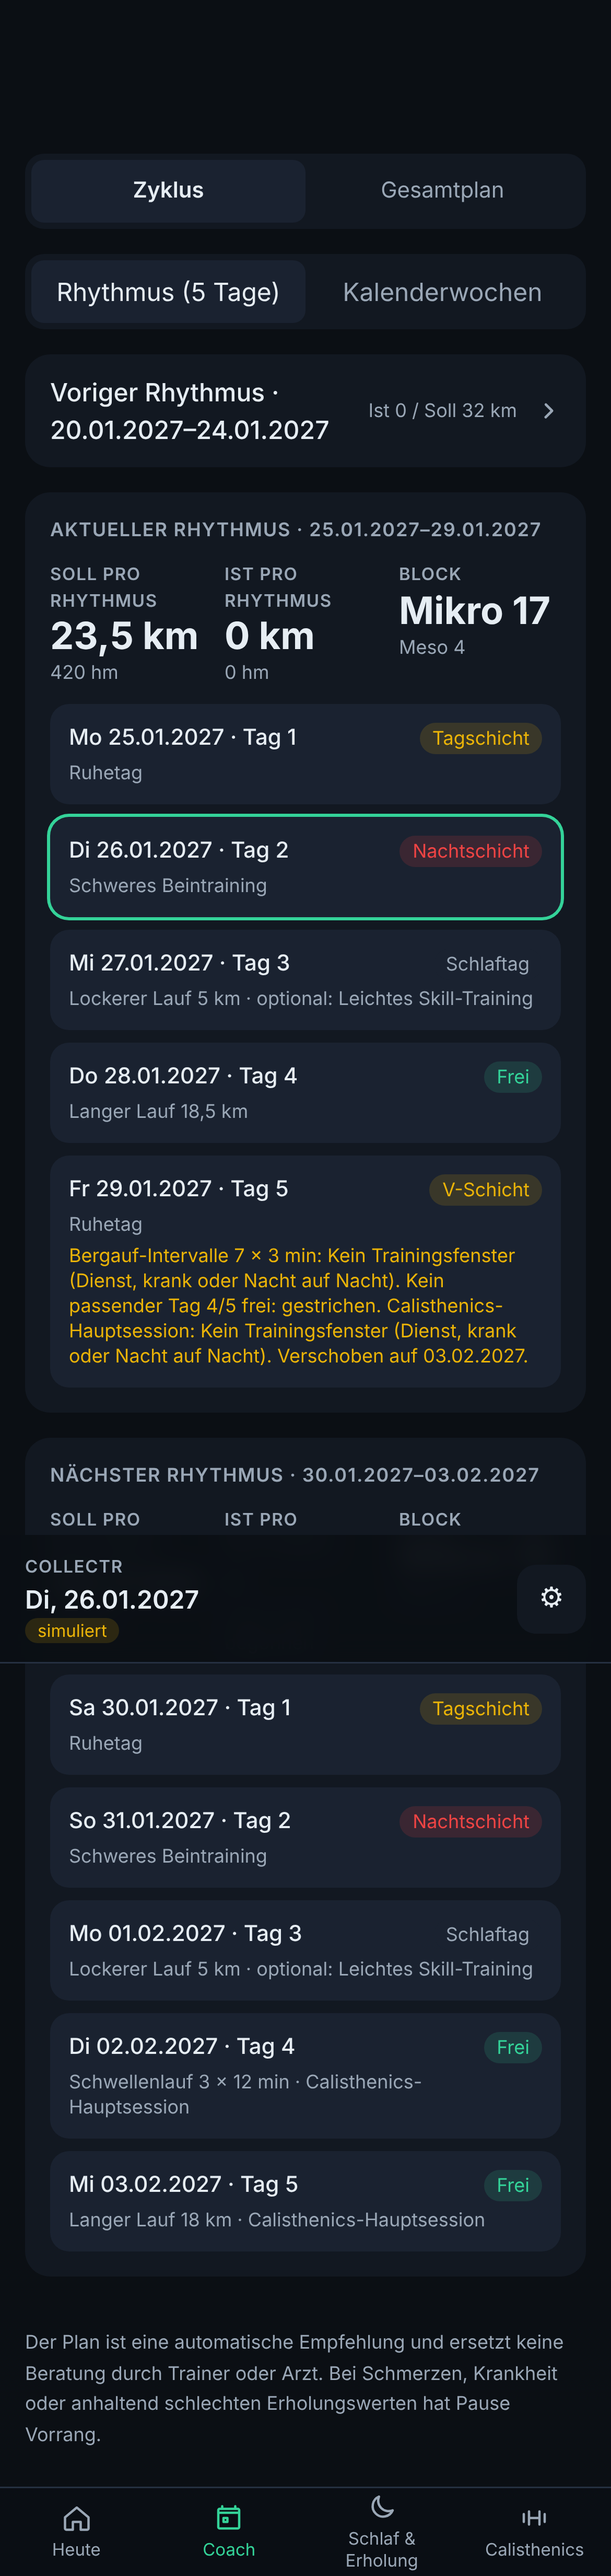
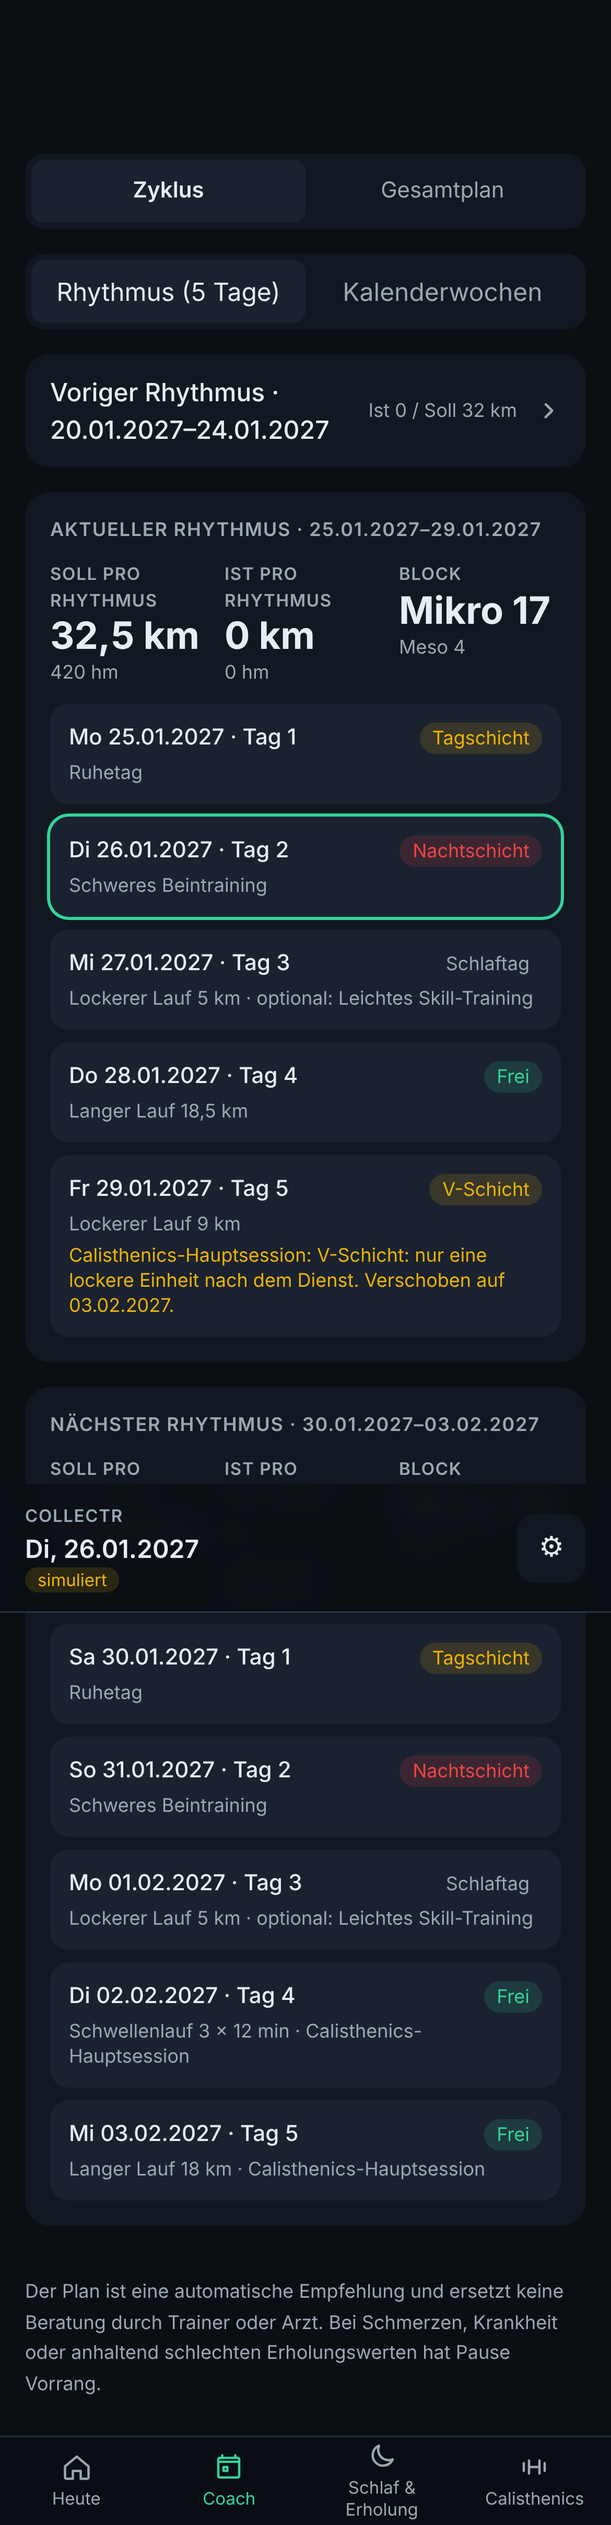
V-Schicht: eine lockere Einheit nach dem Dienst
Nutzerwunsch: Trägt man eine V-Schicht ein, darf der Plan an diesem Tag
Calisthenics oder einen Lauf einplanen statt gar nichts.

- trainingWindow: V-Schicht bekommt ein Fenster nach dem Dienst
  (Ankunft + 30 min, höchstens 60 min, Standard 20:45–21:45)
- placeDay: die wichtigste Einheit des Tages bleibt als lockere Variante
  (Lauf → lockerer Lauf, Kraft → Calisthenics-Erhaltung), lange Läufe nie,
  der Rest wird wie bisher verschoben oder gestrichen
- Schlaf: nach Training am Abend frühestens 45 min später ins Bett
- Tests und Doku angepasst

Claude-Session: https://claude.ai/code/session_017BJPYiqC2kuGk2Qt34sR8W

diff --git a/src/core/plan/plan.test.ts b/src/core/plan/plan.test.ts
@@ -309,7 +309,7 @@ describe('Harte Regeln (SPEC 4.3, 5.3, 5.5, 11)', () => {
     const cal = withOverride(createShiftCalendar(), { date: '2026-11-15', kind: 'V' })
     const p = generatePlan({ calendar: cal })
     expect(types(day(p, '2026-11-14'))).toEqual(['long_run'])
-    expect(day(p, '2026-11-15').sessions).toEqual([])
+    expect(types(day(p, '2026-11-15'))).toEqual(['easy_run']) // lockere Einheit nach dem Dienst
     const hillsId = day(plan, '2026-11-14').sessions[0]!.id
     const logged = generatePlan({ calendar: cal, logs: [{ sessionId: hillsId, date: '2026-11-14', status: 'done' }] })
     expect(types(day(logged, '2026-11-14'))).toEqual(['treadmill_hills', 'calisthenics_main'])
@@ -386,19 +386,39 @@ describe('Harte Regeln (SPEC 4.3, 5.3, 5.5, 11)', () => {
 })
 
 describe('V-Schicht, Ausfälle und Verschieben (SPEC 4.1, 6.3, 11)', () => {
-  it('kurzfristige V-Schicht: keine Einheit am V-Tag, Schlüsseleinheit einmal verschoben oder gestrichen', () => {
+  it('V-Schicht: die wichtigste Einheit bleibt als lockere Variante nach dem Dienst, die andere wird verschoben', () => {
     const cal = withOverride(createShiftCalendar(), { date: '2026-11-15', kind: 'V' })
     const p = generatePlan({ calendar: cal })
     const v = day(p, '2026-11-15')
-    expect(v.sessions).toEqual([])
-    const hills = v.removed.find((r) => r.session.type === 'treadmill_hills')!
-    expect(hills.note).toContain('gestrichen')
+    // Höhenmeter-Einheit (Priorität vor Calisthenics) → lockerer Lauf, höchstens 60 min, Start 20:45
+    expect(v.sessions).toHaveLength(1)
+    const light = v.sessions[0]!
+    expect(light.type).toBe('easy_run')
+    expect(light.origin?.convertedFrom).toBe('treadmill_hills')
+    expect(light.durationMin).toBeLessThanOrEqual(CONFIG.windows.vShiftMaxMin)
+    expect(light.startMin).toBe(20 * 60 + 45)
     const cali = v.removed.find((r) => r.session.type === 'calisthenics_main')!
     expect(cali.reason).toBe('moved')
     const target = day(p, '2026-11-20')
     const moved = target.sessions.find((s) => s.type === 'calisthenics_main')!
     expect(moved.origin?.movedFrom).toBe('2026-11-15')
     expect(target.shift.cycleDay).toBe(5)
+  })
+
+  it('V-Schicht: Calisthenics wird zur Erhaltung, harte Läufe zum lockeren Lauf, lange Läufe nie am V-Tag', () => {
+    // Aufbau Tag 4: Bergauf-Intervalle + Calisthenics → V: lockerer Lauf ≤ 60 min
+    const q = generatePlan({ calendar: withOverride(createShiftCalendar(), { date: '2027-01-28', kind: 'V' }) })
+    expect(day(q, '2027-01-28').sessions.map((s) => [s.type, s.origin?.convertedFrom])).toEqual([['easy_run', 'intervals_uphill']])
+    expect(day(q, '2027-01-28').sessions[0]!.durationMin).toBeLessThanOrEqual(60)
+    // Kraft als wichtigste Einheit (Tag 2 schweres Beintraining, per Tausch V-Schicht) → Calisthenics-Erhaltung
+    const k = generatePlan({ calendar: withOverride(createShiftCalendar(), { date: '2026-11-12', kind: 'TAUSCH', swapTo: 'V' }) })
+    expect(day(k, '2026-11-12').sessions.map((s) => [s.type, s.origin?.convertedFrom])).toEqual([['calisthenics_maintenance', 'legs_heavy']])
+    // Rennspezifisch Tag 4 nur langer Lauf → V-Tag bleibt leer, der lange Lauf rückt auf Tag 5
+    const l = generatePlan({ calendar: withOverride(createShiftCalendar(), { date: '2027-02-27', kind: 'V' }) })
+    expect(day(l, '2027-02-27').sessions).toEqual([])
+    expect(day(l, '2027-02-28').sessions.find((s) => s.type === 'long_run')!.origin?.movedFrom).toBe('2027-02-27')
+    // Tagschicht bleibt ohne Training
+    expect(plan.days.filter((d) => d.shift.code === 'T').every((d) => d.sessions.length === 0 || d.isRaceDay)).toBe(true)
   })
 
   it('nie auf Tag 1 verschoben', () => {

diff --git a/src/core/plan/schedule.ts b/src/core/plan/schedule.ts
@@ -5,7 +5,7 @@ import { CONFIG } from '../config'
 import { effectiveShift, fitsWindow, trainingWindow, type ShiftCalendar } from '../shift'
 import { addDays, daysBetween, formatDateDE } from '../time'
 import type { LocalDate, Phase, PlanDay, PlannedSession, RemovedSession } from '../types'
-import { EASY_ONLY_TYPES, isLongOrQuality, priorityOf, relocate, scaleSession, toLongRun, toStrengthVariant } from './sessionOps'
+import { EASY_ONLY_TYPES, isLongOrQuality, priorityOf, relocate, scaleSession, toLightVariant, toLongRun, toStrengthVariant, V_SHIFT_TYPES } from './sessionOps'
 
 const W = CONFIG.windows
 const DAY45: ReadonlySet<string> = new Set(CONFIG.sessions.day45Only)
@@ -38,6 +38,17 @@ export function placeDay(cal: ShiftCalendar, date: LocalDate, microIndex: number
   if (!w) {
     for (const s of [...list]) drop(s, 'no_window', 'Kein Trainingsfenster (Dienst, krank oder Nacht auf Nacht).')
     day.sessions = list
+    return day
+  }
+  // V-Schicht (Nutzerwunsch): höchstens eine lockere Einheit nach dem Dienst. Die wichtigste Einheit des Tages
+  // bleibt als lockere Variante, lange Läufe und alles Übrige werden wie bisher verschoben oder gestrichen.
+  if (w.afterWork) {
+    const note = 'V-Schicht: nur eine lockere Einheit nach dem Dienst.'
+    const pick = list
+      .filter((s) => !s.optional && !DAY45.has(s.type))
+      .sort((a, b) => priorityOf(b) - priorityOf(a))[0]
+    for (const s of [...list]) if (s !== pick) drop(s, 'no_window', note)
+    day.sessions = pick ? [toLightVariant(pick, phase, w.end - w.start, note)] : []
     return day
   }
   if (w.easyOnly) {
@@ -185,7 +196,7 @@ export function assignStartTimes(days: Map<LocalDate, PlanDay>): void {
     const prev = days.get(addDays(day.date, -1))
     const afterNightRun = prev?.sessions.some((s) => s.type === 'night_run') ?? false
     const total = rest.reduce((a, s) => a + s.durationMin, 0) + Math.max(0, rest.length - 1) * W.transitionMin
-    let t = afterNightRun ? Math.max(w.start, W.afternoonStart) : w.start + W.startOffsetMin
+    let t = afterNightRun ? Math.max(w.start, W.afternoonStart) : w.afterWork ? w.start : w.start + W.startOffsetMin
     if (fixed.length) t = Math.max(...fixed.map((s) => s.startMin! + s.durationMin)) + W.transitionMin
     else if (t + total > w.end) t = Math.max(w.start, w.end - total)
     for (const s of rest) {
@@ -216,7 +227,9 @@ export function checkPlanRules(days: PlanDay[]): RuleViolation[] {
   for (const d of days) {
     if (d.isRaceDay) continue
     if (!d.window && d.sessions.length > 0) out.push({ date: d.date, rule: 'no_training_day', message: 'Einheit an einem Tag ohne Trainingsfenster.' })
-    if (d.window?.easyOnly && d.sessions.some((s) => !EASY_ONLY_TYPES.has(s.type))) out.push({ date: d.date, rule: 'easy_only', message: 'Harte Einheit am Schlaftag.' })
+    if (d.window?.easyOnly && d.sessions.some((s) => !(d.window!.afterWork ? V_SHIFT_TYPES : EASY_ONLY_TYPES).has(s.type)))
+      out.push({ date: d.date, rule: 'easy_only', message: d.window.afterWork ? 'Harte Einheit nach der V-Schicht.' : 'Harte Einheit am Schlaftag.' })
+    if (d.window?.afterWork && d.sessions.length > 1) out.push({ date: d.date, rule: 'window', message: 'Nach der V-Schicht nur eine Einheit.' })
     if (d.window && !fitsWindow(d.window, d.sessions)) out.push({ date: d.date, rule: 'window', message: 'Einheiten passen nicht ins Fenster.' })
     if (d.sessions.some((s) => DAY45.has(s.type)) && d.shift.cycleDay !== 4 && d.shift.cycleDay !== 5)
       out.push({ date: d.date, rule: 'day45', message: 'Langer Lauf nicht an Tag 4/5.' })

diff --git a/src/core/plan/sessionOps.ts b/src/core/plan/sessionOps.ts
@@ -10,6 +10,8 @@ import { roundKm } from './volume'
 export const RUN_LONG_TYPES: ReadonlySet<SessionType> = new Set(['long_run', 'b2b_1', 'b2b_2', 'night_run', 'mountain_day'])
 export const QUALITY_TYPES: ReadonlySet<SessionType> = new Set(['threshold', 'intervals_uphill'])
 export const EASY_ONLY_TYPES: ReadonlySet<SessionType> = new Set(['recovery_run', 'easy_run', 'skill_light', 'mobility'])
+/** Nach der V-Schicht erlaubt: lockere Einheiten und Calisthenics-Erhaltung. */
+export const V_SHIFT_TYPES: ReadonlySet<SessionType> = new Set([...EASY_ONLY_TYPES, 'calisthenics_maintenance'])
 
 export const priorityOf = (s: Pick<PlannedSession, 'type'>): number => CONFIG.sessions.priority[s.type]
 
@@ -98,6 +100,17 @@ export function toStrengthVariant(s: PlannedSession, phase: Phase, type: Session
     ...(s.startMin !== undefined ? { startMin: s.startMin } : {}),
     origin: { ...(s.origin ?? {}), convertedFrom: s.type, ...(note ? { note } : {}) },
   }
+}
+
+/**
+ * Lockere Variante für den Abend nach der V-Schicht, höchstens `maxMin` lang:
+ * Lauf → lockerer Lauf, Kraft → Calisthenics-Erhaltung, lockere Einheiten bleiben (ggf. gekürzt).
+ */
+export function toLightVariant(s: PlannedSession, phase: Phase, maxMin: number, note: string): PlannedSession {
+  const fit = (x: PlannedSession) => (x.durationMin > maxMin ? scaleSession(x, maxMin / x.durationMin) : x)
+  if (V_SHIFT_TYPES.has(s.type)) return fit(s)
+  const light = s.category === 'run' ? toEasyRun(s, phase, maxMin) : toStrengthVariant(s, phase, 'calisthenics_maintenance')
+  return { ...fit(light), origin: { ...(light.origin ?? {}), convertedFrom: s.type, note } }
 }
 
 /** Technik-Variante (schwere Sätze → technische Sätze), leicht gekürzt. */

diff --git a/src/core/shift/shift.test.ts b/src/core/shift/shift.test.ts
@@ -83,13 +83,18 @@ describe('Arbeitszeiten und Losfahren (SPEC 4.1, 4.2)', () => {
 })
 
 describe('Overrides (SPEC 4.1)', () => {
-  it('V-Schicht auf Tag 5: Arbeitstag 07:45, kein Training', () => {
+  it('V-Schicht auf Tag 5: Arbeitstag 07:45, danach 60 min Fenster für eine lockere Einheit (Nutzerwunsch)', () => {
     const c = withOverride(cal, { date: '2026-10-06', kind: 'V' })
     const s = effectiveShift(c, '2026-10-06')
     expect(s.code).toBe('V')
     expect(formatTime(s.work!.actualStart)).toBe('07:45')
     expect(formatTime(s.work!.departure)).toBe('07:30')
-    expect(trainingWindow(c, '2026-10-06')).toBeNull()
+    const w = trainingWindow(c, '2026-10-06')!
+    // Dienstende 20:00 + 15 min Heimweg + 30 min → 20:45–21:45
+    expect([formatTime(w.start), formatTime(w.end)]).toEqual(['20:45', '21:45'])
+    expect(w).toMatchObject({ easyOnly: true, afterWork: true, nightRunAllowed: false })
+    // Tagschicht bleibt ohne Training
+    expect(trainingWindow(cal, '2026-10-02')).toBeNull()
   })
 
   it('Urlaub zählt als frei', () => {

diff --git a/src/core/config.ts b/src/core/config.ts
@@ -157,6 +157,13 @@ export const CONFIG = {
     dayShiftOptionalMobilityMin: 10,
     /** Zweiter Teil eines Back-to-backs nach einem Nachtlauf: nachmittags. */
     afternoonStart: h(15),
+    /**
+     * V-Schicht (Nutzerwunsch 08.11.2026): eine lockere Einheit nach dem Dienst, Beginn so viele
+     * Minuten nach der Ankunft zu Hause (Umziehen, kleiner Snack) …
+     */
+    vShiftAfterHomeMin: 30,
+    /** … und höchstens so lang (lockerer Lauf oder Calisthenics-Erhaltung). */
+    vShiftMaxMin: 60,
   },
 
   // ---------------------------------------------------------------------------
@@ -196,6 +203,8 @@ export const CONFIG = {
     maxDebtPayoffPerNightMin: 60,
     /** Nachtlauf: nach dem Lauf bis zum Zubettgehen (Duschen, Essen). */
     afterNightRunMin: 60,
+    /** Training am Abend (z. B. nach der V-Schicht): mindestens so viel Abstand bis zum Zubettgehen. */
+    afterTrainingBeforeBedMin: 45,
     /** Nap vor einem Nachtlauf. */
     nightRunNapStart: h(15),
     nightRunNapMin: 90,

diff --git a/src/core/shift/window.ts b/src/core/shift/window.ts
@@ -15,11 +15,16 @@ export interface WindowOptions {
   napStart?: Minutes
 }
 
-/** Trainingsfenster oder null (kein Training: Tagdienst, V, krank, Nacht auf Nacht). */
+/** Trainingsfenster oder null (kein Training: Tagdienst, krank, Nacht auf Nacht). V-Schicht: kurzes Fenster nach dem Dienst. */
 export function trainingWindow(cal: ShiftCalendar, date: LocalDate, opts: WindowOptions = {}): TrainingWindow | null {
   const s = effectiveShift(cal, date)
   switch (s.dayKind) {
-    case 'work':
+    case 'work': {
+      // V-Schicht (Nutzerwunsch): eine lockere Einheit nach dem Dienst. Tagschicht und Fortbildung: kein Training.
+      if (s.code !== 'V' || !s.work) return null
+      const start = s.work.homeArrival + W.vShiftAfterHomeMin
+      return { start, end: start + W.vShiftMaxMin, easyOnly: true, nightRunAllowed: false, afterWork: true }
+    }
     case 'sick':
     case 'night_to_night':
       return null

diff --git a/src/core/types.ts b/src/core/types.ts
@@ -59,7 +59,7 @@ export interface WorkTimes extends ShiftTimes {
 
 /**
  * Planungskategorie eines Tages, abgeleitet aus der tatsächlichen Schicht und der Vortagsschicht.
- * - work: Tagdienst (T, V, Fortbildung) → kein Training
+ * - work: Tagdienst (T, V, Fortbildung) → kein Training, nach der V-Schicht eine lockere Einheit
  * - pre_night: Nachtschicht am Abend → Training vormittags vor dem Nap
  * - night_to_night: Nachtschicht nach Nachtschicht → kein Training
  * - sleep_day: frei nach einer Nachtschicht → Training erst nachmittags und nur locker
@@ -88,6 +88,8 @@ export interface TrainingWindow {
   easyOnly: boolean
   /** Nachtlauf erlaubt (freier Tag, Folgetag ebenfalls frei). */
   nightRunAllowed: boolean
+  /** V-Schicht: höchstens eine lockere Einheit nach dem Dienst. */
+  afterWork?: boolean
 }
 
 // ---------------------------------------------------------------------------

diff --git a/src/core/sleep/recommend.ts b/src/core/sleep/recommend.ts
@@ -137,6 +137,12 @@ export function recommendSleep(input: SleepInput): SleepRecommendation {
       notes.push(`Rennvorbereitung: regelmäßige, eher frühe Nächte vor dem Start um ${formatTime(R.startMin)} Uhr.`)
       tag = 'race'
     }
+    // Training am Abend (z. B. nach der V-Schicht): mit Abstand ins Bett, notfalls etwas weniger Schlaf.
+    const lastEnd = todaySessions.reduce((a, s) => (s.startMin !== undefined ? Math.max(a, s.startMin + s.durationMin) : a), -Infinity)
+    if (!nightRun && bed < lastEnd + S.afterTrainingBeforeBedMin) {
+      bed = lastEnd + S.afterTrainingBeforeBedMin
+      notes.push(`Training am Abend: frühestens ${formatTime(bed)} Uhr ins Bett, vorher essen und runterkommen.`)
+    }
     rec.night = block(date, bed, wake)
   } else if (today.code === 'N') {
     notes.push('Heute Nacht Dienst: der Hauptschlaf folgt morgen nach der Schicht.')

diff --git a/e2e/app.spec.ts b/e2e/app.spec.ts
@@ -91,8 +91,9 @@ test('Onboarding, Heute, Zyklus, Plan, Kraft, Tracking, Einstellungen', async ({
   await expect(d5).toContainText('V-Schicht')
   await expect(d5).not.toContainText('Ruhetag · optional')
   await expect(d5).toContainText(/gestrichen|Verschoben/)
-  // V-Schicht an Tag 5: der lange Lauf rückt auf Tag 4
+  // V-Schicht an Tag 5: der lange Lauf rückt auf Tag 4, nach dem Dienst eine lockere Einheit
   await expect(d4).toContainText('Langer Lauf')
+  await expect(d5).toContainText('Lockerer Lauf')
   await noHorizontalScroll(page)
   await shot(page, '04-zyklus-v-schicht')
   await page.getByRole('button', { name: 'Kalenderwochen' }).click()

diff --git a/src/app/compute.test.ts b/src/app/compute.test.ts
@@ -111,7 +111,7 @@ describe('Tagesansicht', () => {
 
   it('V-Schicht verändert den Plan sofort', () => {
     const { v } = view(data({ overrides: [{ date: '2026-11-15', kind: 'V' }] }), '2026-11-15')
-    expect(v.items).toEqual([])
+    expect(v.items.map((i) => i.session.type)).toEqual(['easy_run']) // eine lockere Einheit nach dem Dienst
     expect(v.day!.removed.length).toBeGreaterThan(0)
   })
 

diff --git a/CLAUDE.md b/CLAUDE.md
@@ -27,6 +27,7 @@ Bei Unklarheiten, Widersprüchen oder mehreren sinnvollen Möglichkeiten: **den 
 | Entlastung | jeweils der letzte Mikrozyklus eines Mesozyklus (4, 8, 14, 20, 25), **außer Meso 6**, weil dort direkt der Taper folgt |
 | Schweres Beintraining | vorrangig Tag 2. Tag 4 nur, wenn Tag 5 keinen langen Lauf und keine Qualitätseinheit hat |
 | Tag 4/5 in Grundlage und Aufbau | (Nutzerwunsch 26.10.2026) Tag 4: Höhenmeter- bzw. Qualitätseinheit, danach Calisthenics. Tag 5: langer Lauf (`plan.longRunDay`). Ist Tag 5 nicht frei (V, Urlaub, krank) und Tag 4 noch ohne Eintrag, läuft der lange Lauf an Tag 4. Rennspezifisch und Taper unverändert (langer Lauf Tag 4) |
+| V-Schicht (Nutzerwunsch 08.11.2026) | An V-Tagen plant der Plan **eine lockere Einheit nach dem Dienst** (Fenster 20:45–21:45, max. 60 min, `windows.vShiftMaxMin`). Die wichtigste Einheit des Tages bleibt als lockere Variante (Lauf → lockerer Lauf, Kraft → Calisthenics-Erhaltung), lange Läufe nie am V-Tag, alles Übrige wird wie bisher verschoben oder gestrichen. Bettzeit mind. 45 min nach dem Training. Tagschicht weiter ohne Training |
 | Bergwochenenden | 1: **Streckenbesichtigung** Fr/Sa 19./20.03.2027 (4 Wochen vor dem Rennen) |
 | Umfang (Zielwechsel) | ans Rennen angepasst: Spitze ca. 52–57 km/Woche, längster Lauf 32 km (14.03.2027), B2B-Spitze 22 + 14 km |
 | Rennwoche ohne Urlaub | Schichtplan bleibt wie berechnet, Warnung im Coach (Checkliste), bis Urlaub eingetragen ist. Renntag = Zyklustag 3. Pflicht 15.–16.04. (T, N), empfohlen ab 10.04. |
@@ -112,6 +113,8 @@ Bei Unklarheiten, Widersprüchen oder mehreren sinnvollen Möglichkeiten: **den 
   - Rennen an Zyklustag 3 (`race_day` berechnet den Tag aus dem Datum), `raceConflict` prüft auch den Renntag
   - Start 08:30: Rennzeitplan-Läufe und Vorabend mit 06:00 aufstehen; alte Einträge einmalig gelöscht (`race.id`)
   - Tests: 246 Vitest, 10 Playwright
+- [x] **V-Schicht mit lockerer Einheit** (Nutzerwunsch): `trainingWindow` gibt für V ein Fenster nach dem Dienst (`afterWork`), `placeDay` behält die wichtigste Einheit als `toLightVariant`, Schlaf: `sleep.afterTrainingBeforeBedMin`
+  - Tests: 247 Vitest, 10 Playwright
 
 ## Phase 2 – Plan (freigegeben)
 

diff --git a/docs/PLANUNG.md b/docs/PLANUNG.md
@@ -436,3 +436,10 @@ Entlastungen: Mikro 6, 12, 18, 25, 32, 38, 44, 50, 56. Krafttests: 6, 12, 18, 25
 - Mikrozyklus 33: das Rennen liegt auf dem Zyklustag des Renndatums (`compose.ts`, `race_day`), optionales Auflockern am Tag davor.
 - Schlaf: aufstehen 06:00 vor Rennen und langen Läufen im Rennzeitplan, ins Bett ca. 21:15 (inkl. 30 min extra vor Schlüsseleinheiten). Kein Nap am Renntag.
 - Alte Einträge werden über `race.id = 'soul-trail-2027'` einmalig gelöscht (`resetHistoryOnce`).
+
+### 9.4 V-Schicht mit lockerer Einheit (08.11.2026)
+
+- Nutzerwunsch: Trägt man eine V-Schicht ein, darf der Plan an diesem Tag Calisthenics oder einen Lauf einplanen.
+- `trainingWindow`: V-Schicht → Fenster ab Ankunft zu Hause + 30 min für höchstens 60 min (Standard 20:45–21:45), `afterWork: true`. Tagschicht und Fortbildung bleiben ohne Training.
+- `placeDay`: genau eine Einheit, die wichtigste nach `sessions.priority` (ohne lange Lauftypen), als lockere Variante (`toLightVariant`): Lauf → lockerer Lauf ≤ 60 min, Kraft → Calisthenics-Erhaltung. Die übrigen Einheiten fallen weg und werden als Schlüsseleinheiten wie bisher verschoben oder gestrichen. Der V-Tag nimmt selbst keine verschobenen Einheiten an.
+- Schlaf: nach einem Training am Abend frühestens 45 min später ins Bett (`sleep.afterTrainingBeforeBedMin`).
